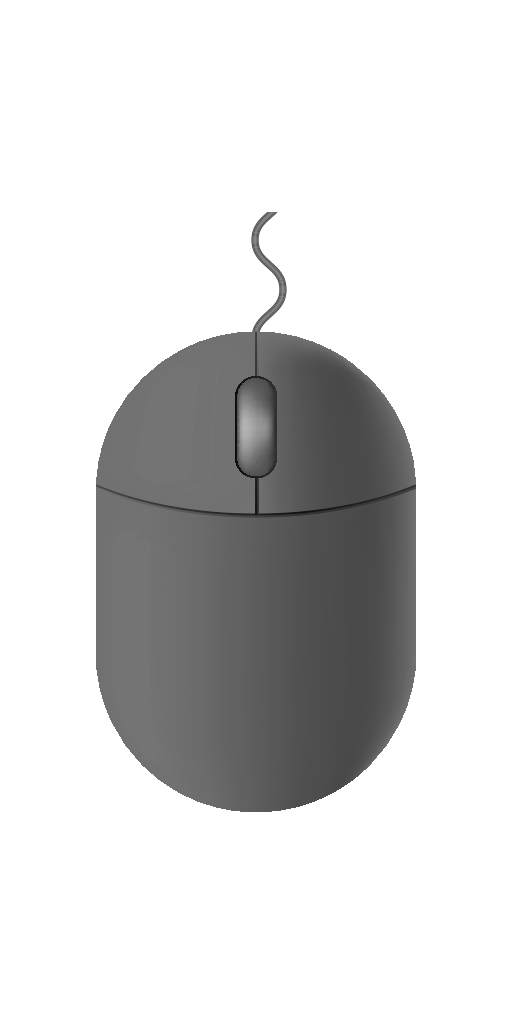
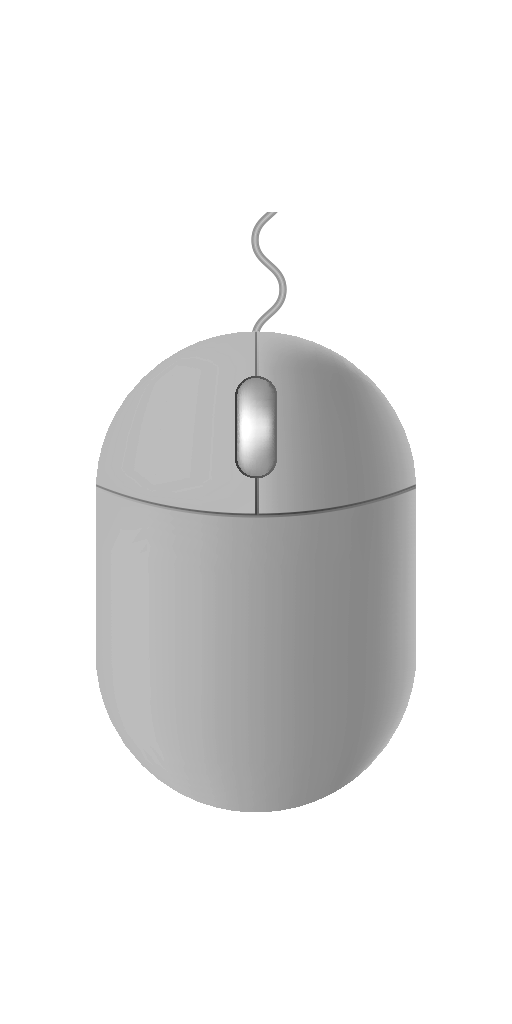
Rendering/handling mouse input besides the keyboard

Changed region(s): [[0.1875, 0.1875, 0.8125, 0.8125]]

diff --git a/demos/FPL_Input/fpl_input.cpp b/demos/FPL_Input/fpl_input.cpp
@@ -17,6 +17,10 @@ Author:
 	Torsten Spaete
 
 Changelog:
+	## 2018-08-14:
+	- Draw mouse and buttons
+	- Read mouse button states
+
 	## 2018-08-13:
 	- Initial creation of this description block
 -------------------------------------------------------------------------------
@@ -575,6 +579,13 @@ constexpr float GamepadAspect = GamepadImageW / (float)GamepadImageH;
 constexpr float GamepadW = AppWidth * 0.8f;
 constexpr float GamepadH = GamepadW / GamepadAspect;
 
+constexpr int MouseImageW = 512;
+constexpr int MouseImageH = 1024;
+static const Vec2i MouseImageS = V2i(MouseImageW, MouseImageH);
+constexpr float MouseAspect = MouseImageW / (float)MouseImageH;
+constexpr float MouseW = AppWidth * 0.2f;
+constexpr float MouseH = MouseW / MouseAspect;
+
 struct KeyCharDef {
 	const wchar_t *text;
 	Vec2f align;
@@ -872,6 +883,18 @@ static KeyLedDef KeyLedDefinitions[] = {
 	{fplKeyboardModifierFlags_NumLock, UVRectFromPos(KeyboardImageS, KeyboardLedS, V2i(1820, 325))},
 };
 
+struct MouseButtonDef {
+	fplMouseButtonType buttonType;
+	UVRect uv;
+};
+
+static MouseButtonDef MouseButtonDefinitions[] = {
+	{fplMouseButtonType_Left, UVRectFromPos(MouseImageS, V2i(139, 181), V2i(96, 332))},
+	{fplMouseButtonType_Right, UVRectFromPos(MouseImageS, V2i(139, 181), V2i(277, 332))},
+	{fplMouseButtonType_Middle, UVRectFromPos(MouseImageS, V2i(42, 102), V2i(235, 376))},
+};
+
+
 constexpr size_t CodePointCount = 10000;
 constexpr size_t CodePointsPerAtlas = 256;
 constexpr size_t FontCount = CodePointCount / CodePointsPerAtlas + 1;
@@ -886,6 +909,7 @@ struct AppState {
 	GLuint fontTextures[FontCount];
 	GLuint keyboardTexture;
 	GLuint gamepadTexture;
+	GLuint mouseTexture;
 	Vec2f mousePos;
 	RenderMode renderMode;
 	fpl_b32 usePolling;
@@ -893,6 +917,7 @@ struct AppState {
 
 struct InputState {
 	Vec2i mousePos;
+	fplButtonState mouseStates[fplMouseButtonType_MaxCount];
 	fplButtonState keyStates[256];
 	fplKeyboardModifierFlags ledStates;
 };
@@ -928,6 +953,7 @@ static void InitApp(AppState *appState) {
 
 	appState->keyboardTexture = LoadTexture(dataPath, "keyboard.png");
 	appState->gamepadTexture = LoadTexture(dataPath, "gamepad.png");
+	appState->mouseTexture = LoadTexture(dataPath, "mouse.png");
 	appState->usePolling = 0;
 	appState->renderMode = RenderMode::KeyboardAndMouse;
 }
@@ -1035,11 +1061,7 @@ static void RenderApp(AppState *appState, const InputState *input, const uint32_
 			float keyOffsetY = KeyboardH * (1.0f - key.uv.vMax);
 			float keyCenterX = keyboardCenterX - KeyboardW * 0.5f + keyOffsetX + keyW * 0.5f;
 			float keyCenterY = keyboardCenterY - KeyboardH * 0.5f + keyOffsetY + keyH * 0.5f;
-#if 0
-			bool down = true;// input->keyStates[keyIndex] >= fplButtonState_Press;
-#else
 			bool down = input->keyStates[keyIndex] >= fplButtonState_Press;
-#endif
 			if(down) {
 				glColor4f(1.0f, 0.0f, 0.0f, 1.0f);
 				DrawSprite(appState->keyboardTexture, keyW * 0.5f, keyH * 0.5f, key.uv, keyCenterX, keyCenterY);
@@ -1054,6 +1076,28 @@ static void RenderApp(AppState *appState, const InputState *input, const uint32_
 				float x = keyCenterX + ((keyW * 0.5f) * keyChar.align.x);
 				float y = keyCenterY + ((keyH * 0.5f) * keyChar.align.y);
 				DrawTextFont(keyChar.text, FontCount, appState->fontData, appState->fontTextures, x, y, keyFontHeight, 0.0f, 0.0f);
+			}
+		}
+
+		// Draw mouse and buttons
+		constexpr float offsetMouseX = -MouseW * 0.1f;
+		float mouseCenterX = keyboardCenterX + KeyboardW * 0.5f + offsetMouseX + MouseW * 0.5f;
+		float mouseCenterY = keyboardCenterY;
+		{
+			glColor4f(1.0f, 1.0f, 1.0f, 1.0f);
+			DrawSprite(appState->mouseTexture, MouseW * 0.5f, MouseH * 0.5f, 0.0f, 1.0f, 1.0f, 0.0f, mouseCenterX, mouseCenterY);
+		}
+		for(int i = 0; i < FPL_ARRAYCOUNT(input->mouseStates); ++i) {
+			const MouseButtonDef mouseButtonDef = MouseButtonDefinitions[i];
+			float mouseW = MouseW * (mouseButtonDef.uv.uMax - mouseButtonDef.uv.uMin);
+			float mouseH = MouseH * (mouseButtonDef.uv.vMax - mouseButtonDef.uv.vMin);
+			float mouseOX = MouseW * (mouseButtonDef.uv.uMin);
+			float mouseOY = MouseH * (1.0f - mouseButtonDef.uv.vMax);
+			float mouseCX = mouseCenterX - MouseW * 0.5f + mouseOX + mouseW * 0.5f;
+			float mouseCY = mouseCenterY - MouseH * 0.5f + mouseOY + mouseH * 0.5f;
+			if(input->mouseStates[i] >= fplButtonState_Press) {
+				glColor4f(1.0f, 0.0f, 0.0f, 1.0f);
+				DrawSprite(appState->mouseTexture, mouseW * 0.5f, mouseH * 0.5f, mouseButtonDef.uv, mouseCX, mouseCY);
 			}
 		}
 
@@ -1139,6 +1183,8 @@ int main(int argc, char *argv[]) {
 							if(ev.mouse.type == fplMouseEventType_Move) {
 								input.mousePos.x = ev.mouse.mouseX;
 								input.mousePos.y = ev.mouse.mouseY;
+							} else if(ev.mouse.type == fplMouseEventType_Button) {
+								input.mouseStates[(int)ev.mouse.mouseButton] = ev.mouse.buttonState;
 							}
 						} break;
 
@@ -1165,7 +1211,7 @@ int main(int argc, char *argv[]) {
 				if(fplPollKeyboardState(&keyboardState)) {
 					if(appState->usePolling) {
 						for(int i = 0; i < 256; ++i) {
-							if (KeyWasDown(lastKeyStates[i], keyboardState.buttonStatesMapped[i])) {
+							if(KeyWasDown(lastKeyStates[i], keyboardState.buttonStatesMapped[i])) {
 								HandleKeyPressed(appState, (fplKey)i);
 							}
 							input.keyStates[i] = keyboardState.buttonStatesMapped[i];
@@ -1197,6 +1243,10 @@ int main(int argc, char *argv[]) {
 					if(fplPollMouseState(&mouseState)) {
 						input.mousePos.x = mouseState.x;
 						input.mousePos.y = mouseState.y;
+						FPL_ASSERT(FPL_ARRAYCOUNT(mouseState.buttonStates) <= FPL_ARRAYCOUNT(input.mouseStates));
+						for(int i = 0; i < FPL_ARRAYCOUNT(mouseState.buttonStates); ++i) {
+							input.mouseStates[i] = mouseState.buttonStates[i];
+						}
 					}
 				}
 
